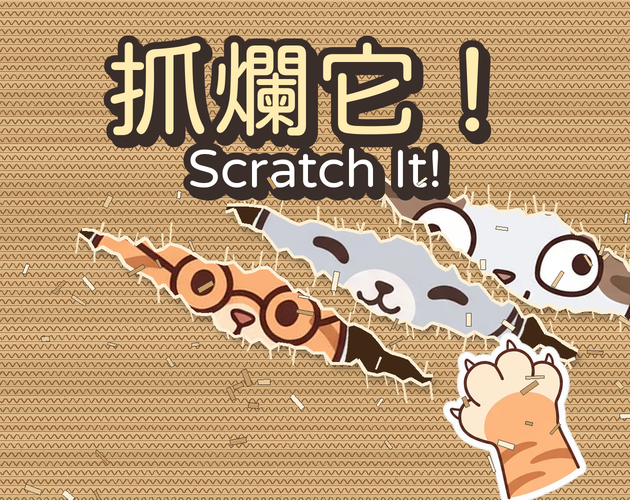
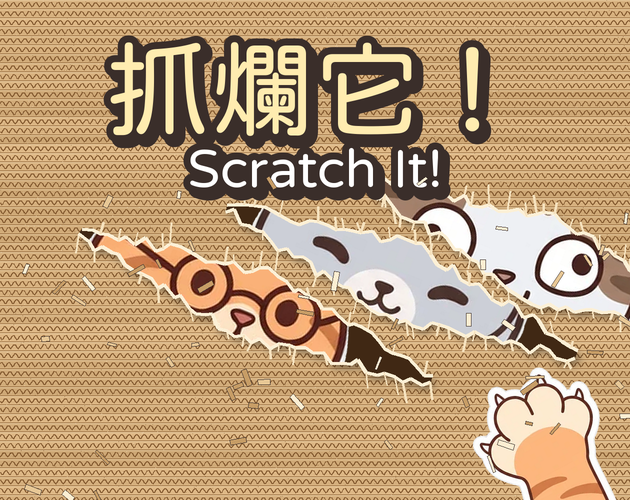
promo: cover paw nudged down-right
Claude-Session: https://claude.ai/code/session_01JwpXpdCFcD9wJhSf6baPfY

Changed region(s): [[0.6937, 0.66, 0.9952, 1.0]]

diff --git a/tools/promo/cover.py b/tools/promo/cover.py
@@ -137,7 +137,7 @@ def version_b():
         n = len(poly) // 2; edges(d, poly[:n], rnd, True); edges(d, poly[n:], rnd, False)
     # 貓掌正在撕（右下角）
     paw = Image.open(ART + 'orange_paw_out.webp').convert('RGBA'); k = 330 / paw.height; paw = paw.resize((int(paw.width * k), 330), Image.LANCZOS).rotate(28, expand=True, resample=Image.BICUBIC)
-    im.alpha_composite(paw, (W0 - paw.width - 30, H0 - paw.height + 40))
+    im.alpha_composite(paw, (W0 - paw.width + 30, H0 - paw.height + 110))   # 往右下，不蓋到小弟的臉
     title(im, 60, zh_y=275); scraps(im, rnd, 55, (0, 360, W0, H0))
     return im
 
